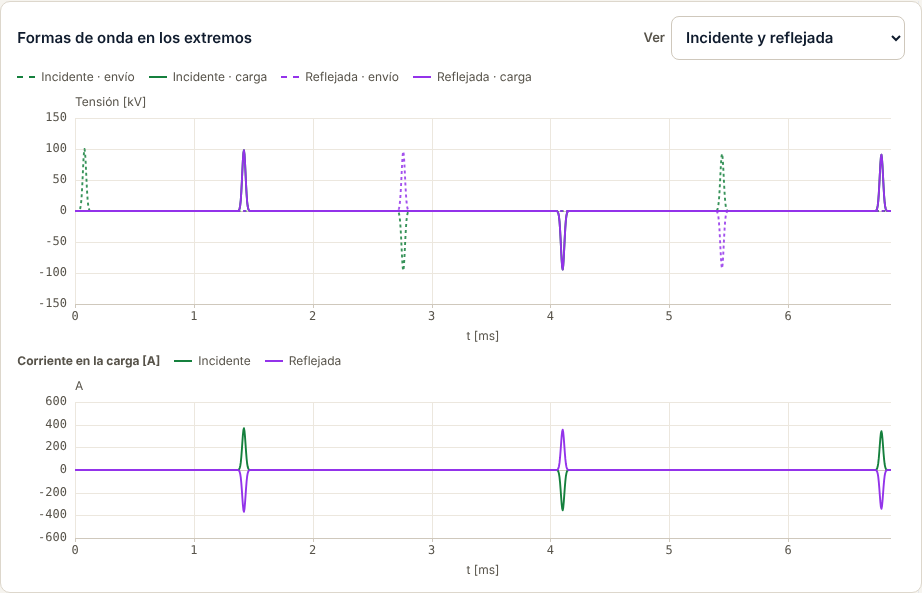
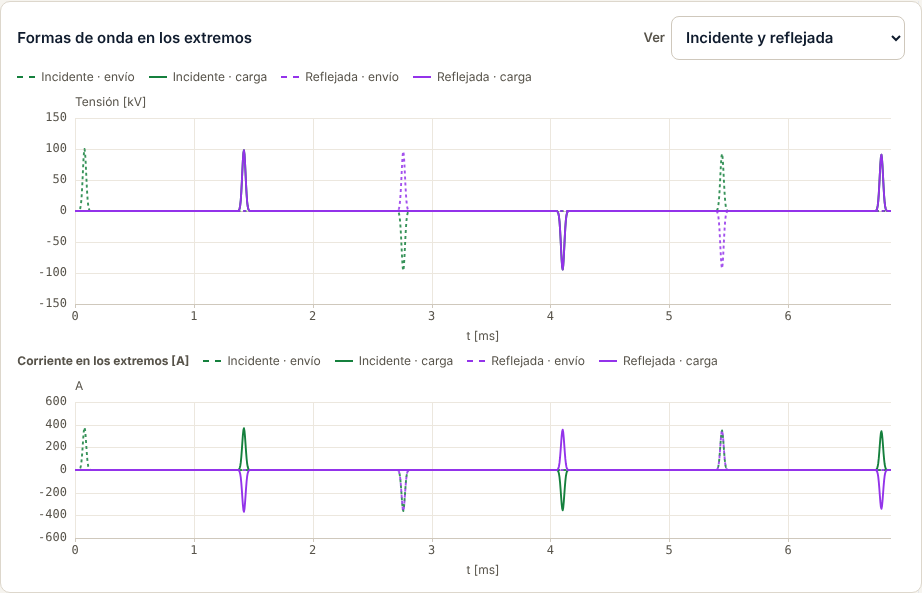
Vitrina: corriente total en los dos extremos
Claude-Session: https://claude.ai/code/session_01Y8BDcqqBeNuuJ4XcJGWvje

diff --git a/README.md b/README.md
@@ -55,7 +55,7 @@ La corriente también se separa: i⁺ = v⁺/Zc e i⁻ = −v⁻/Zc. En la carga
 
 ![Tensión y corriente: total, incidente y reflejada](docs/corriente-ondas.png)
 
-Las formas de onda en los extremos tienen el mismo selector: tensión incidente y reflejada en el envío (punteada) y en la carga (llena), y corriente incidente y reflejada en la carga. Acá se ve el pulso ir y volver varias veces, invirtiéndose en la fuente (Rs = 0):
+Las formas de onda en los extremos tienen el mismo selector: tensión y corriente, total, incidente y reflejada, en el envío (punteada) y en la carga (llena). La corriente que entrega la fuente se obtiene del FDTD con el balance de la media celda del extremo, y coincide con el fasor (691,47 A contra 691,5 A en el ejemplo de clase). Acá se ve el pulso ir y volver varias veces, invirtiéndose en la fuente (Rs = 0):
 
 ![Formas de onda en los extremos: incidente y reflejada](docs/extremos-ondas.png)
 
